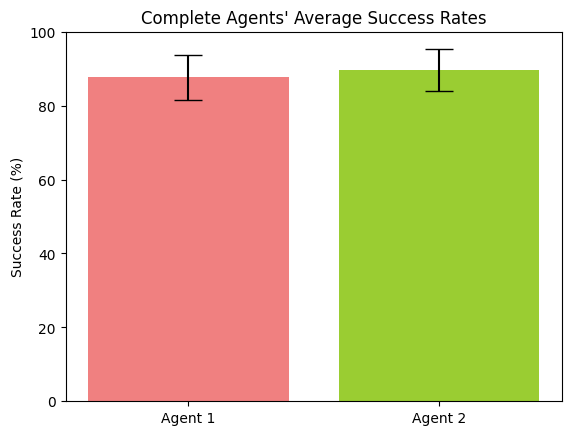
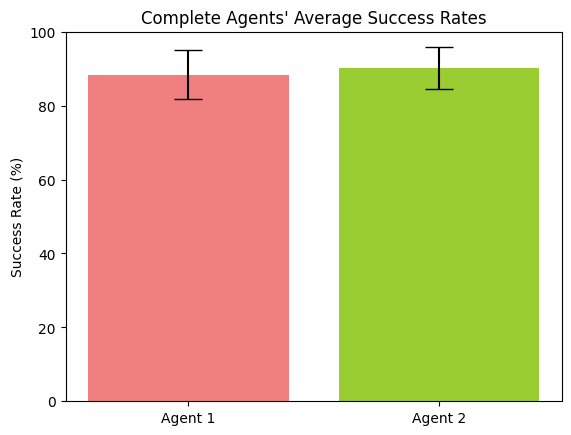
run experiments a8, works

diff --git a/main.py b/main.py
@@ -258,15 +258,18 @@ def labreport_simulation_statistics_agent8():
 
 if __name__ == "__main__":
     
-    #labreport_simulation_statistics_agent1()
-    #labreport_simulation_statistics_agent2()
-    #simulation_statistics.visualize("data/", "simulation_statistics_complete.json")
+    labreport_simulation_statistics_agent1()
+    labreport_simulation_statistics_agent2()
+    simulation_statistics.visualize("data/", "simulation_statistics_complete.json")
 
-    #labreport_simulation_statistics_agent3()
-    #labreport_simulation_statistics_agent4()
-    #simulation_statistics.visualize("data/", "simulation_statistics_partial-prey.json")
+    labreport_simulation_statistics_agent3()
+    labreport_simulation_statistics_agent4()
+    simulation_statistics.visualize("data/", "simulation_statistics_partial-prey.json")
 
-    #labreport_simulation_statistics_agent5()
-    #labreport_simulation_statistics_agent6()   
-    #labreport_simulation_statistics_agent7()
+    labreport_simulation_statistics_agent5()
+    labreport_simulation_statistics_agent6()   
+    simulation_statistics.visualize("data/", "simulation_statistics_partial-predator.json")
+
+    labreport_simulation_statistics_agent7()
     labreport_simulation_statistics_agent8()
+    simulation_statistics.visualize("data/", "simulation_statistics_combined-partial-information.json")
